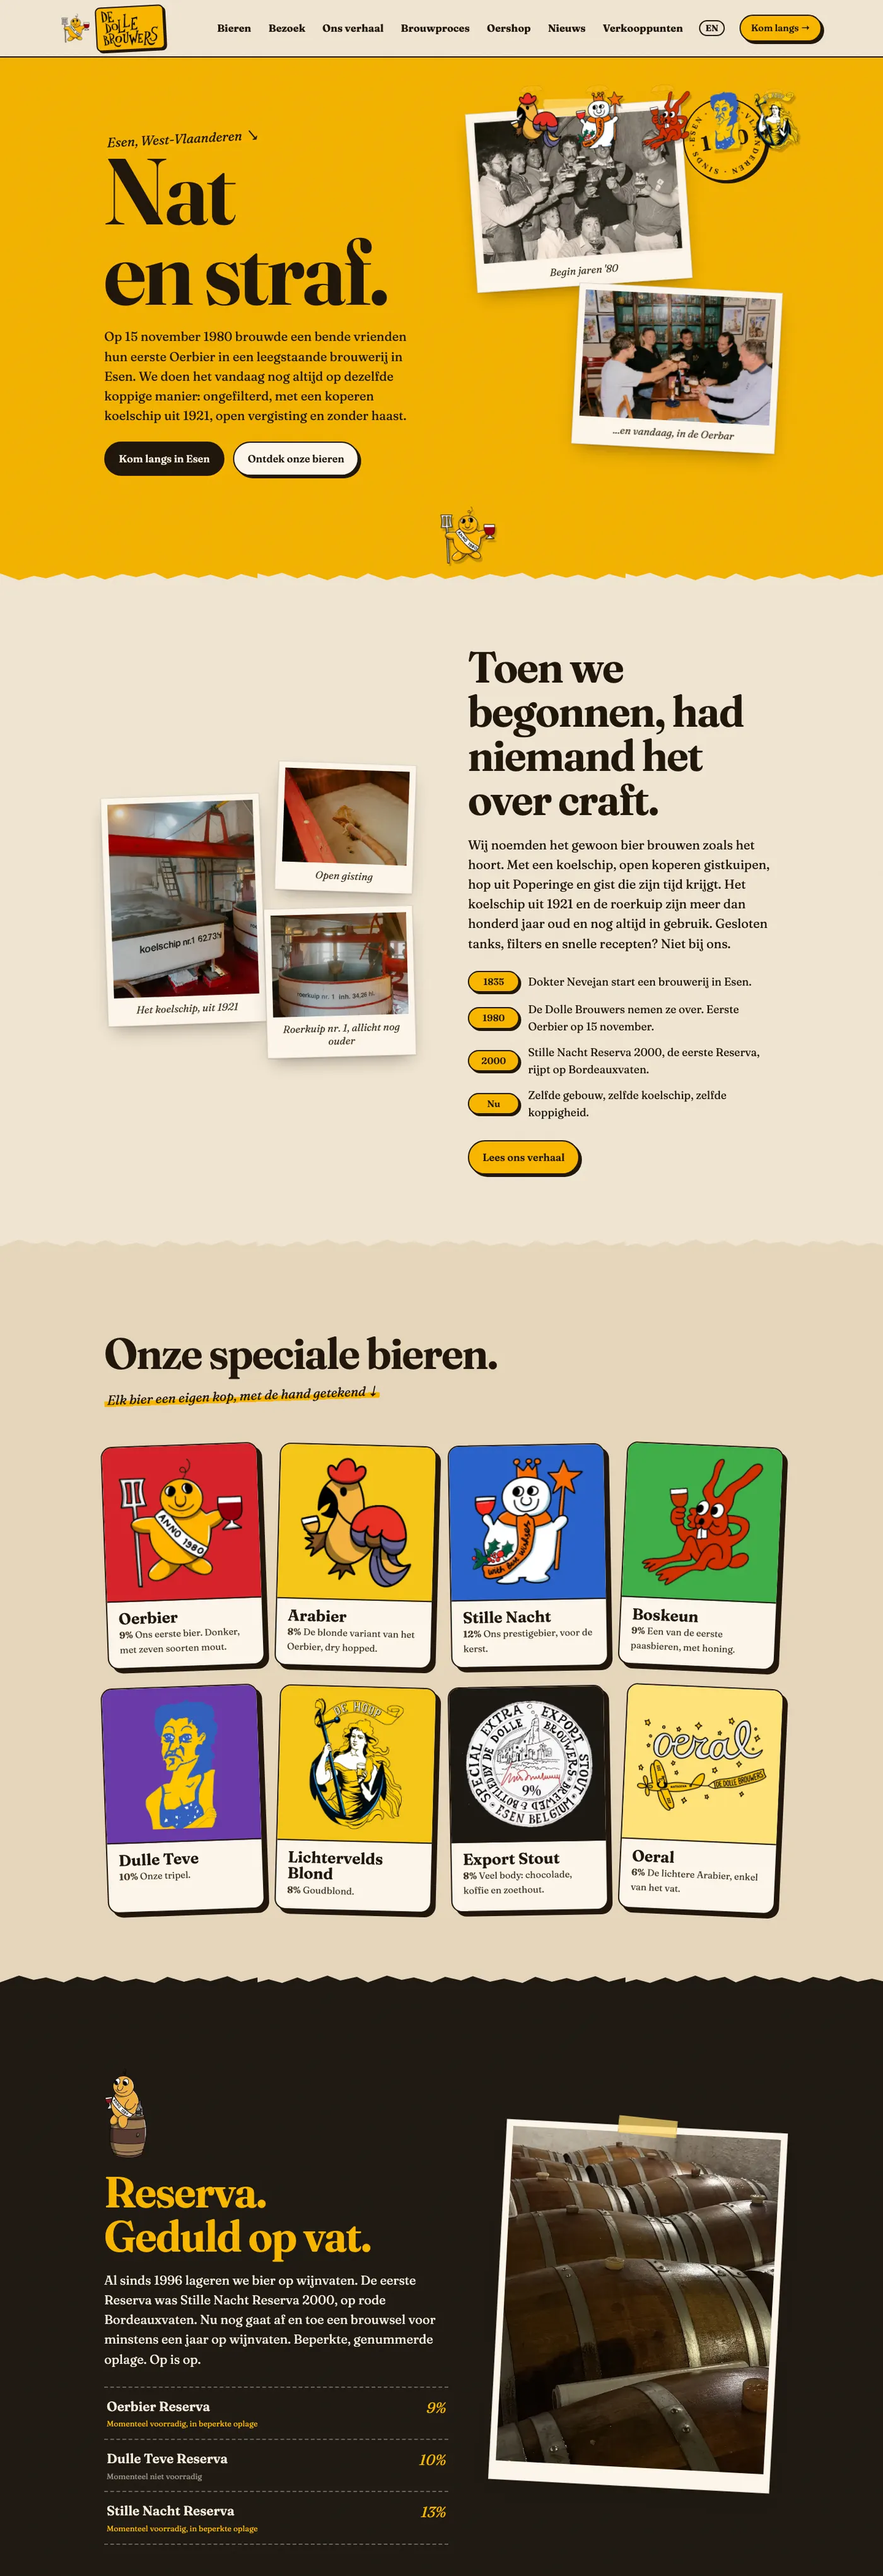
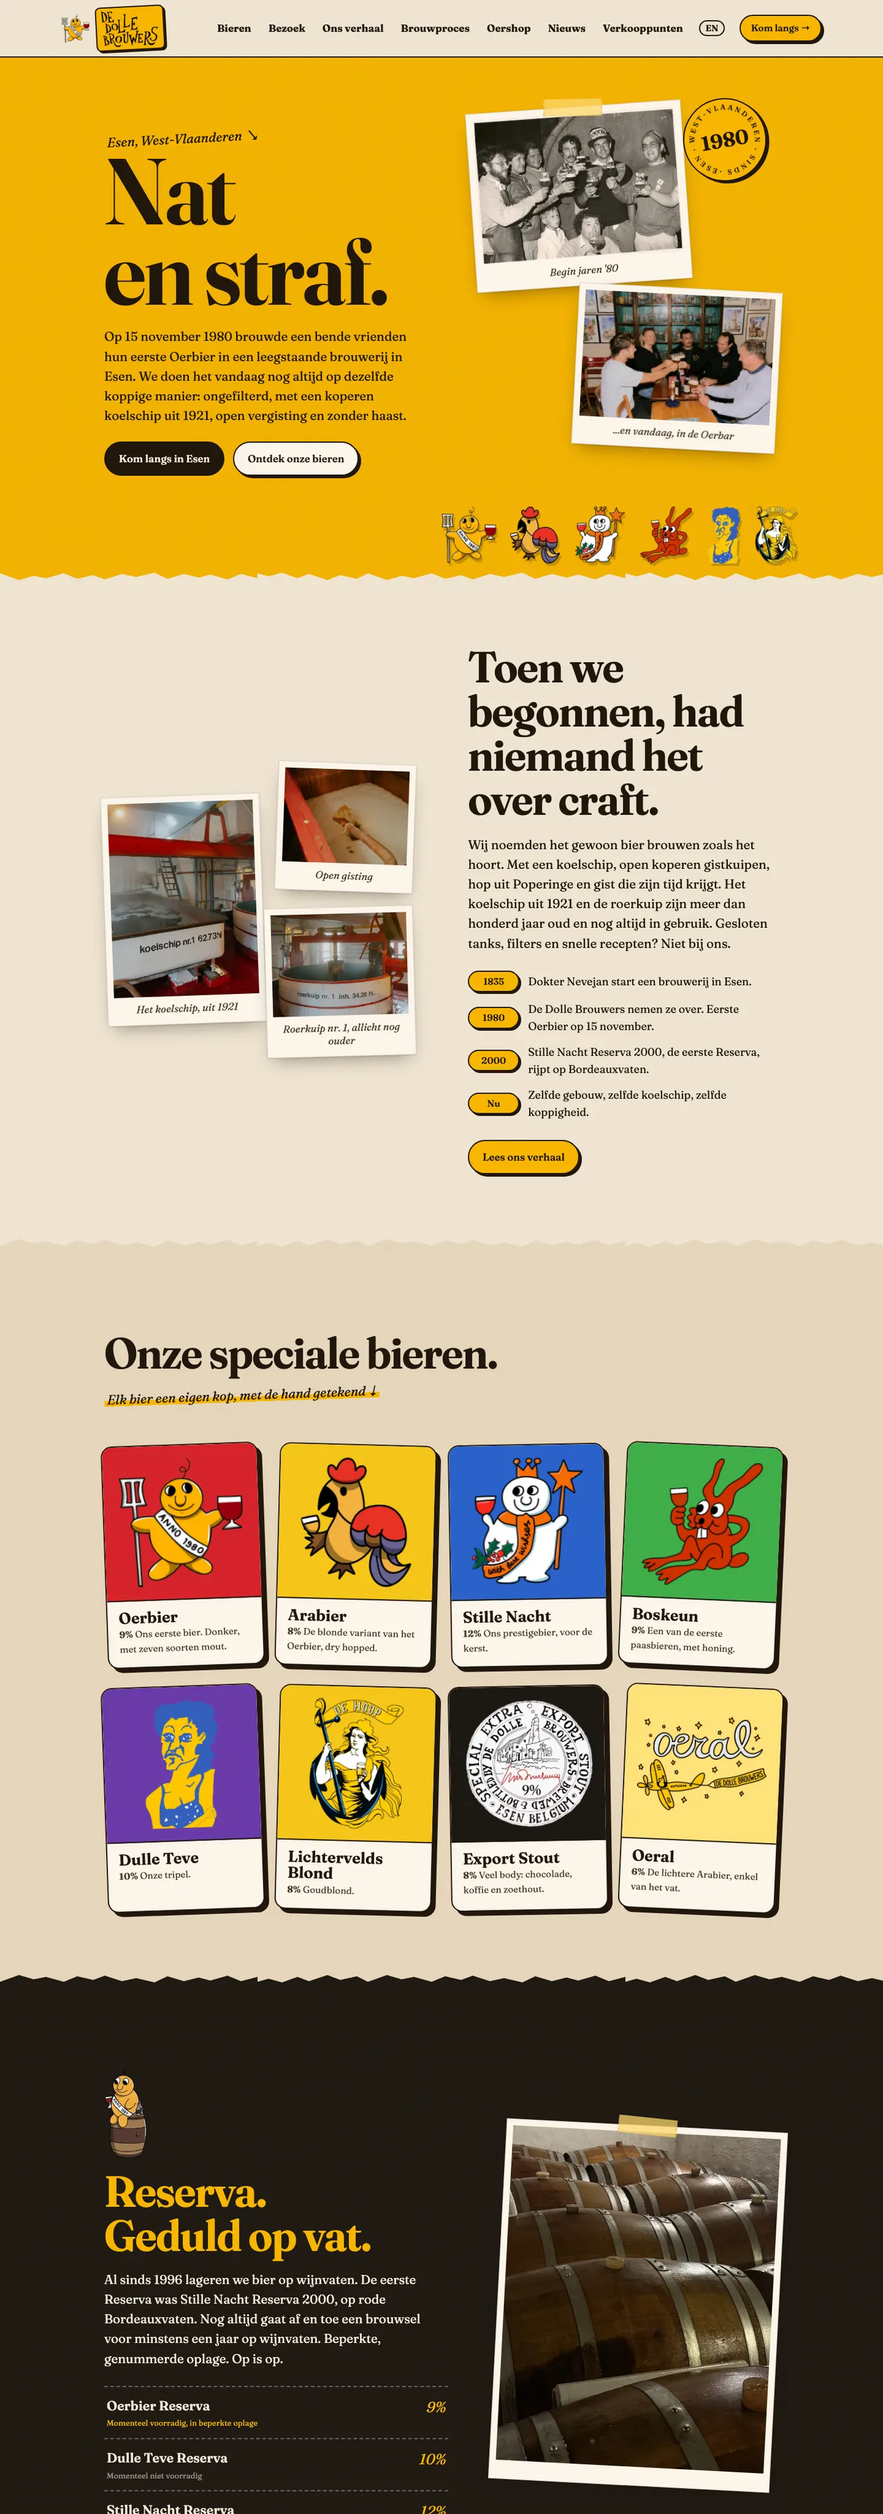
Real dedollebrouwers.be screenshots after hero animation; contact heading: Zeg eens hallo

diff --git a/index.html b/index.html
@@ -232,7 +232,7 @@ section{padding-inline:clamp(16px,4vw,56px)}
 </section>
 
 <section class="contact" id="contact">
- <h2><span>Laten we</span><span>praten.</span></h2>
+ <h2><span>Zeg eens</span><span>hallo.</span></h2>
  <p>Zoek je iemand die een idee kan bedenken én maken? Stuur me een mail.</p>
  <div class="row"><div class="copyrow"><a class="mail" href="mailto:hallo@benjaminherteleer.work">hallo@benjaminherteleer.work</a><button type="button" class="copybtn" data-copy="Kopieer" data-copied="Gekopieerd">Kopieer</button></div>
  <a class="pill light" href="tel:+32494705597">+32 494 70 55 97</a><a class="pill light" href="https://www.linkedin.com/in/benjamin-herteleer-6a9912219" target="_blank" rel="noopener">LinkedIn ↗</a></div>
@@ -274,7 +274,7 @@ section{padding-inline:clamp(16px,4vw,56px)}
 </section>
 
 <section class="contact" id="contact-en">
- <h2><span>Let's</span><span>talk.</span></h2>
+ <h2><span>Say</span><span>hello.</span></h2>
  <p>Looking for someone who can come up with an idea and make it too? Send me an email.</p>
  <div class="row"><div class="copyrow"><a class="mail" href="mailto:hallo@benjaminherteleer.work">hallo@benjaminherteleer.work</a><button type="button" class="copybtn" data-copy="Copy" data-copied="Copied">Copy</button></div>
  <a class="pill light" href="tel:+32494705597">+32 494 70 55 97</a><a class="pill light" href="https://www.linkedin.com/in/benjamin-herteleer-6a9912219" target="_blank" rel="noopener">LinkedIn ↗</a></div>

diff --git a/build.py b/build.py
@@ -68,7 +68,7 @@ T = {
       ('2021 – 2025', 'Bachelor Communicatie &amp; Digitale Marketing', 'Arteveldehogeschool Gent · met onderscheiding')],
   tools='Photoshop · Canva · Meta Ads · Shopify · Astro · Illustrator · Procreate · Claude',
   langs='Nederlands · Engels · Frans',
-  contact_h=['Laten we', 'praten.'], contact_sub='Zoek je iemand die een idee kan bedenken én maken? Stuur me een mail.',
+  contact_h=['Zeg eens', 'hallo.'], contact_sub='Zoek je iemand die een idee kan bedenken én maken? Stuur me een mail.',
   copy='Kopieer', copied='Gekopieerd', footer='Zelf geschreven, ontworpen en gebouwd.', close='Sluiten',
  ),
  'en': dict(
@@ -111,7 +111,7 @@ T = {
       ('2021 – 2025', 'Bachelor in Communication &amp; Digital Marketing', 'Arteveldehogeschool Ghent · with distinction')],
   tools='Photoshop · Canva · Meta Ads · Shopify · Astro · Illustrator · Procreate · Claude',
   langs='Dutch · English · French',
-  contact_h=['Let\'s', 'talk.'], contact_sub='Looking for someone who can come up with an idea and make it too? Send me an email.',
+  contact_h=['Say', 'hello.'], contact_sub='Looking for someone who can come up with an idea and make it too? Send me an email.',
   copy='Copy', copied='Copied', footer='Written, designed and built by me.', close='Close',
  ),
 }
